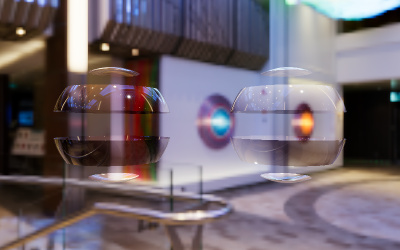
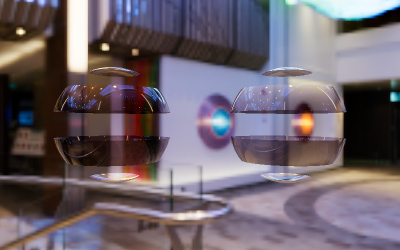
Examples: Removed SpotLights from webgl_materials_physical_transmission example.

diff --git a/examples/webgl_materials_physical_transmission.html b/examples/webgl_materials_physical_transmission.html
@@ -132,18 +132,6 @@
 
 				//
 
-				const spotLight1 = new THREE.SpotLight( 0xffffff, params.lightIntensity );
-				spotLight1.position.set( 100, 200, 100 );
-				spotLight1.angle = Math.PI / 6;
-				scene.add( spotLight1 );
-
-				const spotLight2 = new THREE.SpotLight( 0xffffff, params.lightIntensity );
-				spotLight2.position.set( - 100, - 200, - 100 );
-				spotLight2.angle = Math.PI / 6;
-				scene.add( spotLight2 );
-
-				//
-
 				stats = new Stats();
 				container.appendChild( stats.dom );
 
@@ -205,14 +193,6 @@
 
 						material1.envMapIntensity = material2.envMapIntensity = params.envMapIntensity;
 						material1b.envMapIntensity = material2b.envMapIntensity = params.envMapIntensity;
-
-					} );
-
-				gui.add( params, 'lightIntensity', 0, 1, 0.01 )
-					.name( 'light intensity' )
-					.onChange( function () {
-
-						spotLight1.intensity = spotLight2.intensity = params.lightIntensity;
 
 					} );
 
